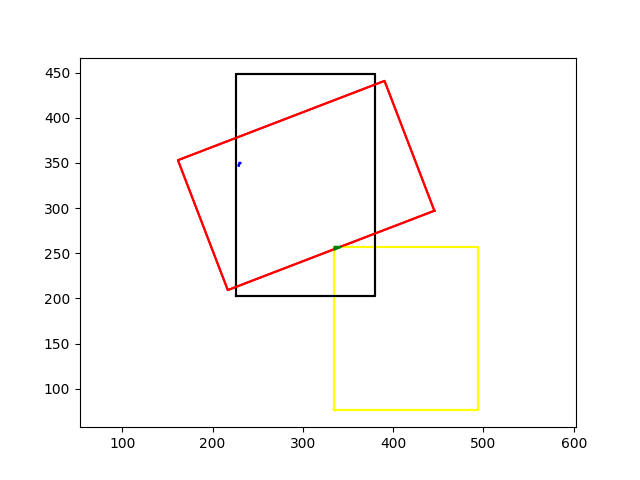
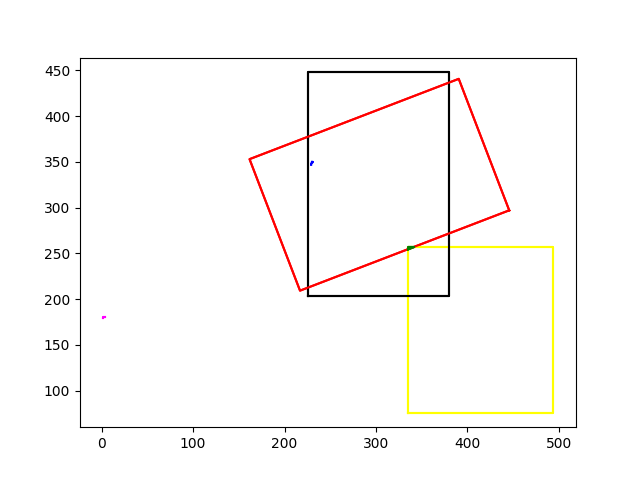
shifting in coordinate system is done using affine transform

diff --git a/CoordinateSystem.py b/CoordinateSystem.py
@@ -62,6 +62,14 @@ class CoordinateSystem:
         # end = time.time()
         # print("rotate corners: ",end-Start,"\n\n" )
     
+    def shiftAnElement(self,geometric_figure, SHIFT_X,SHIFT_Y):
+        M = [1,0,0,1,-SHIFT_X,-SHIFT_Y]
+        rotated = affine_transform(geometric_figure,M)
+        rotated = loads(dumps(rotated, rounding_precision=0))
+        x,y = rotated.coords.xy
+        plt.plot(x,y,color='magenta')
+        return rotated
+
     def get_intersection_polygon(self):
         # Start = time.time()
         p1 = Polygon(self.rectangle1)
@@ -118,12 +126,13 @@ class CoordinateSystem:
         if coordintes_of_intersection == -1:
             return -1
         initialPolygon2 = self.rotateElement(coordintes_of_intersection,360-thetha)
+        initialPolygon1 = self.shiftAnElement(coordintes_of_intersection,SHIFT_X,SHIFT_Y)
         x2, y2 =initialPolygon2.coords.xy	
         plt.plot(x2, y2,color='blue')
-        coordinates_in_polygon1 = self.make_image_format_indexing(coordintes_of_intersection)
+        coordinates_in_polygon1 = self.make_image_format_indexing(initialPolygon1)
         coordinates_in_polygon2 = self.make_image_format_indexing(initialPolygon2)
-        coordinates_in_polygon1[0] = coordinates_in_polygon1[0] - SHIFT_Y
-        coordinates_in_polygon1[1] = coordinates_in_polygon1[1] - SHIFT_X
+        # coordinates_in_polygon1[0] = coordinates_in_polygon1[0] - SHIFT_Y
+        # coordinates_in_polygon1[1] = coordinates_in_polygon1[1] - SHIFT_X
         coordinates_in_polygon1 = self.makeImageCoordinateFormat(coordinates_in_polygon1)
         coordinates_in_polygon2 = self.makeImageCoordinateFormat(coordinates_in_polygon2)
         plt.gca().invert_yaxis()

diff --git a/ImageStitcher.py b/ImageStitcher.py
@@ -40,8 +40,8 @@ class ImageStitcher:
 
     def calculateLoss(self,SHIFT):
         SHIFT_X,SHIFT_Y, thetha = SHIFT
-        SHIFT_X, SHIFT_Y, thetha = int(SHIFT_X*(self.w1+self.w2)),int(SHIFT_Y*(self.h1+self.h2)),int(thetha*360)
-        # SHIFT_X, SHIFT_Y, thetha = int(SHIFT_X),int(SHIFT_Y),int(thetha)
+        # SHIFT_X, SHIFT_Y, thetha = int(SHIFT_X*(self.w1+self.w2)),int(SHIFT_Y*(self.h1+self.h2)),int(thetha*360)
+        SHIFT_X, SHIFT_Y, thetha = int(SHIFT_X),int(SHIFT_Y),int(thetha)
         print("SHIFT_X: ",SHIFT_X,"    SHIFT_Y: ",SHIFT_Y,"    Angle: ",thetha)
         if (SHIFT_X>=self.w1+self.img2_canvas_size-self.img2_canvas_size*0.05 or SHIFT_Y>=self.h1+self.img2_canvas_size-self.img2_canvas_size*0.05 or SHIFT_Y<self.img2_canvas_size*0.05 or SHIFT_X<self.img2_canvas_size*0.05):
             return 255*3*self.w1*self.h1*self.h2*self.w2
